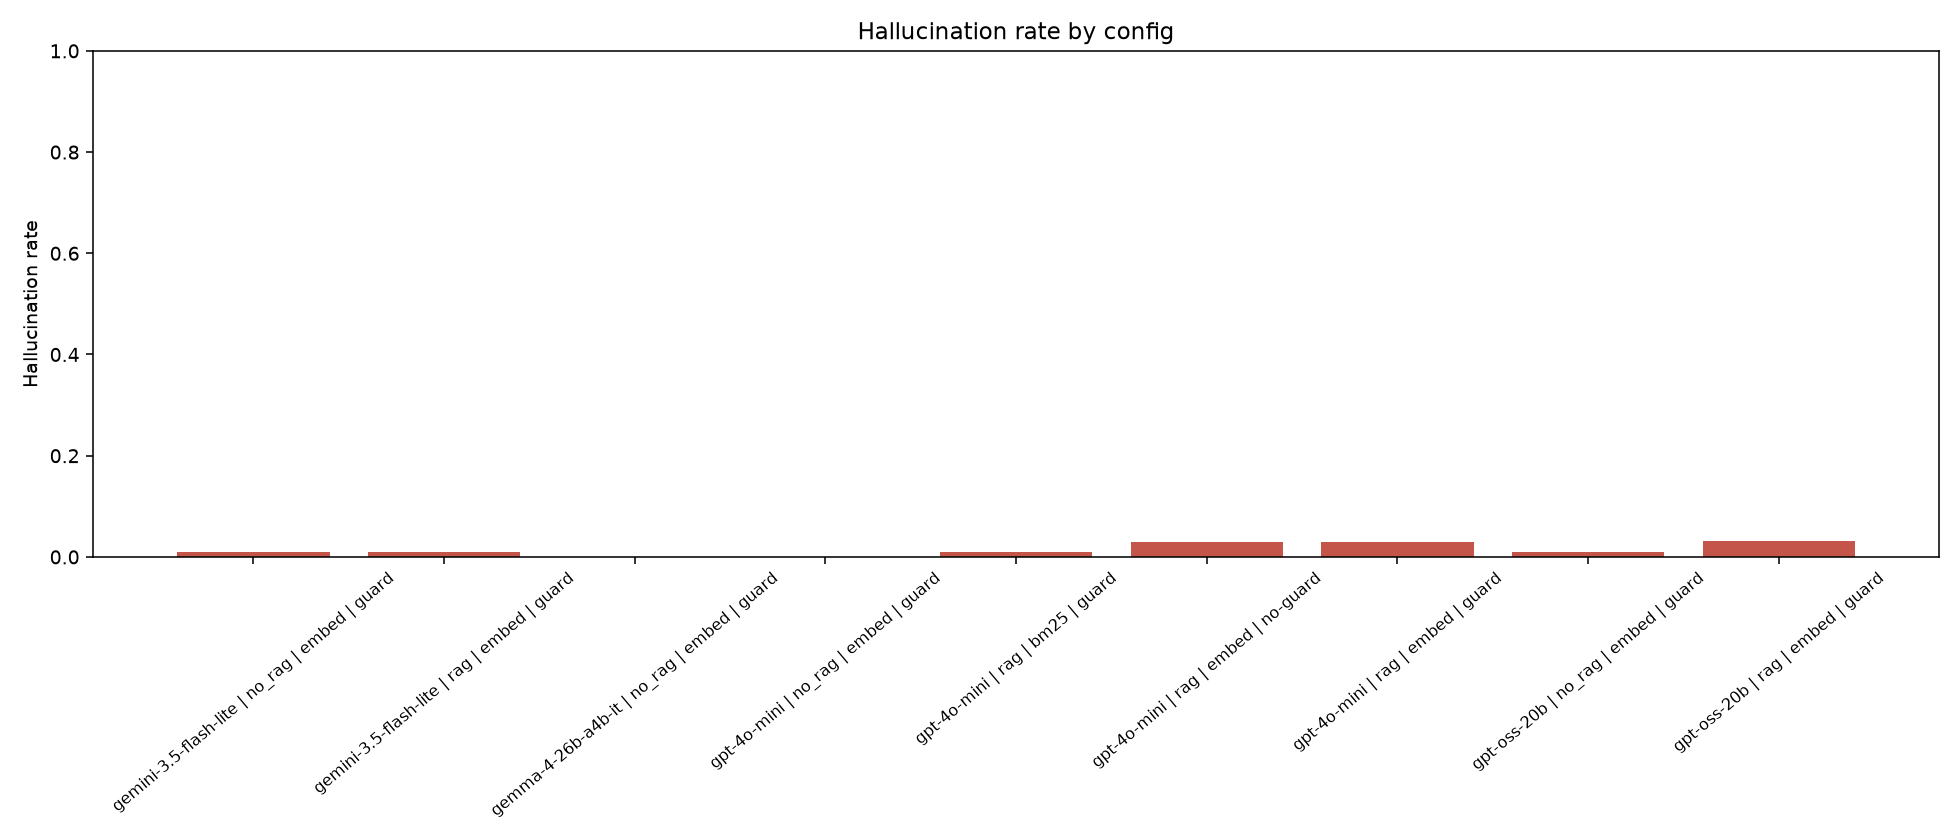
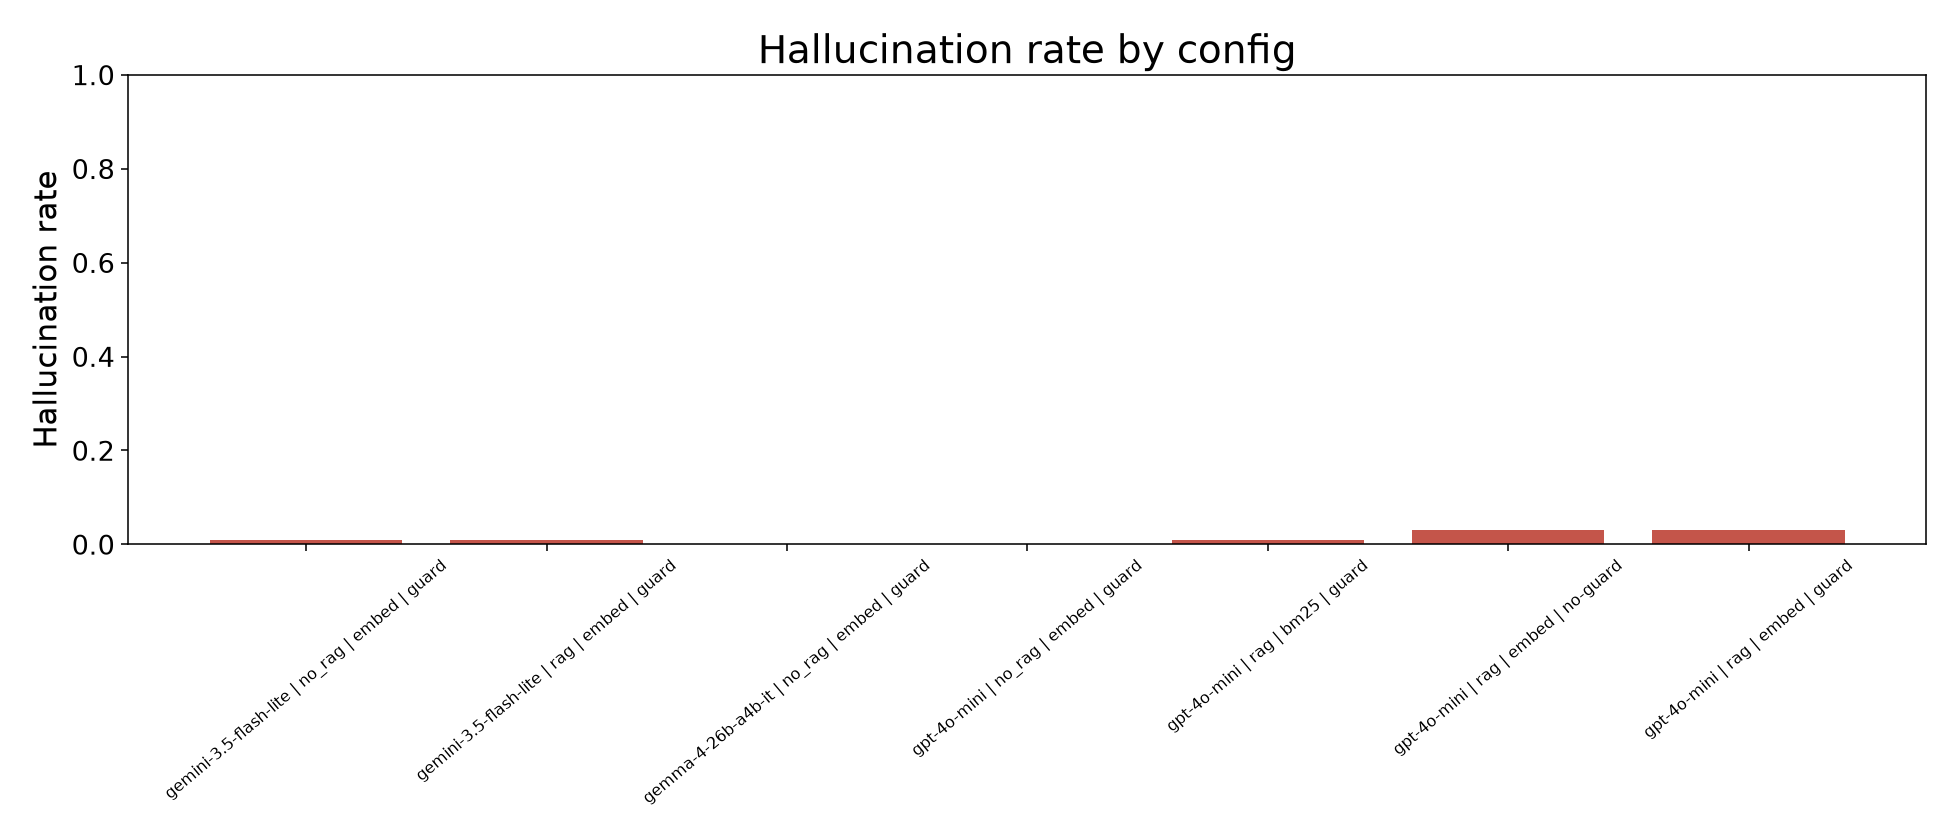
Drop gpt-oss from the main summary and add slide charts.
The spoiler prompt now refuses an ending question that does not ask for spoilers. Those questions are not rerun yet. gpt-oss-20b stays in the README appendix.

diff --git a/eval/run_eval.py b/eval/run_eval.py
@@ -265,6 +265,22 @@ def _label(row) -> str:
     return f"{row['model']} | {row['mode']} | {row['retriever']} | {guard}"
 
 
+def _summarize(frame: pd.DataFrame) -> tuple[pd.DataFrame, pd.DataFrame]:
+    summary_rows = []
+    for keys, group in frame.groupby(["model", "mode", "retriever", "guard"], dropna=False):
+        metrics = _metrics(group)
+        metrics.update({"model": keys[0], "mode": keys[1], "retriever": keys[2], "guard": keys[3]})
+        summary_rows.append(metrics)
+    group_rows = []
+    for keys, group in frame.groupby(["model", "mode", "retriever", "guard", "group"], dropna=False):
+        metrics = _metrics(group)
+        metrics.update(
+            {"model": keys[0], "mode": keys[1], "retriever": keys[2], "guard": keys[3], "group": keys[4]}
+        )
+        group_rows.append(metrics)
+    return pd.DataFrame(summary_rows), pd.DataFrame(group_rows)
+
+
 def _write_reports(rows: list[dict]) -> None:
     frame = pd.DataFrame(rows)
     if frame.empty:
@@ -273,34 +289,56 @@ def _write_reports(rows: list[dict]) -> None:
     if "judge" not in frame.columns:
         frame["judge"] = [{} for _ in range(len(frame))]
     frame["judge"] = frame["judge"].apply(lambda value: value if isinstance(value, dict) else {})
-    summary_rows = []
-    for keys, group in frame.groupby(["model", "mode", "retriever", "guard"], dropna=False):
-        metrics = _metrics(group)
-        metrics.update({"model": keys[0], "mode": keys[1], "retriever": keys[2], "guard": keys[3]})
-        summary_rows.append(metrics)
-    summary = pd.DataFrame(summary_rows)
+    if "version" not in frame.columns:
+        frame["version"] = None
+    # gpt-oss stays in an appendix. v1 spoiler rows stay in raw.jsonl for the before/after chart.
+    main = frame[frame["model"] != "gpt-oss-20b"].copy()
+    if (main["version"] == "v2").any():
+        main = main[main["version"].fillna("v2") != "v1"]
+    appendix = frame[frame["model"] == "gpt-oss-20b"]
+    summary, by_group = _summarize(main)
     summary.to_csv(RESULTS / "summary.csv", index=False)
-
-    group_rows = []
-    for keys, group in frame.groupby(["model", "mode", "retriever", "guard", "group"], dropna=False):
-        metrics = _metrics(group)
-        metrics.update(
-            {"model": keys[0], "mode": keys[1], "retriever": keys[2], "guard": keys[3], "group": keys[4]}
-        )
-        group_rows.append(metrics)
-    by_group = pd.DataFrame(group_rows)
     by_group.to_csv(RESULTS / "summary_by_group.csv", index=False)
+    if not appendix.empty:
+        extra, extra_group = _summarize(appendix)
+        extra.to_csv(RESULTS / "summary_gpt_oss.csv", index=False)
+        extra_group.to_csv(RESULTS / "summary_gpt_oss_by_group.csv", index=False)
 
-    _figures(summary, by_group)
-    _examples(frame)
-    _manual(frame)
+    _figures(summary, by_group, frame)
+    _examples(main)
+    _manual(main)
     print(summary.to_string(index=False))
     print(f"wrote {RESULTS / 'summary.csv'}")
 
 
-def _figures(summary: pd.DataFrame, by_group: pd.DataFrame) -> None:
+def _slide_style() -> None:
+    plt.rcParams.update(
+        {
+            "figure.facecolor": "white",
+            "axes.facecolor": "white",
+            "savefig.facecolor": "white",
+            "font.size": 16,
+            "axes.titlesize": 20,
+            "axes.labelsize": 16,
+            "xtick.labelsize": 14,
+            "ytick.labelsize": 14,
+            "legend.fontsize": 14,
+        }
+    )
+
+
+def _short_model(name: str) -> str:
+    return {
+        "gemini-3.5-flash-lite": "Flash-Lite",
+        "gpt-4o-mini": "gpt-4o-mini",
+        "gemma-4-26b-a4b-it": "Gemma 4 26B",
+    }.get(name, name)
+
+
+def _figures(summary: pd.DataFrame, by_group: pd.DataFrame, raw: pd.DataFrame) -> None:
     figures = RESULTS / "figures"
     figures.mkdir(parents=True, exist_ok=True)
+    _slide_style()
     summary = summary.copy()
     summary["label"] = summary.apply(_label, axis=1)
 
@@ -347,6 +385,126 @@ def _figures(summary: pd.DataFrame, by_group: pd.DataFrame) -> None:
     ax.set_title("Cost vs verdict accuracy")
     fig.tight_layout()
     fig.savefig(figures / "cost_vs_accuracy.png", dpi=140)
+    plt.close(fig)
+    _slide_charts(figures, summary, by_group, raw)
+
+
+def _slide_charts(figures: Path, summary: pd.DataFrame, by_group: pd.DataFrame, raw: pd.DataFrame) -> None:
+    """Big-font charts for slides. gpt-oss is already out of summary."""
+    import numpy as np
+
+    pairs = []
+    for model, part in summary.groupby("model", sort=False):
+        no = part[(part["mode"] == "no_rag") & (part["retriever"] == "embed") & (part["guard"] == True)]  # noqa: E712
+        rag = part[(part["mode"] == "rag") & (part["retriever"] == "embed") & (part["guard"] == True)]  # noqa: E712
+        if no.empty or rag.empty:
+            continue
+        pairs.append((model, no.iloc[0], rag.iloc[0]))
+    if pairs:
+        labels = [_short_model(model) for model, _, _ in pairs]
+        x = np.arange(len(labels))
+        width = 0.36
+        fig, axes = plt.subplots(1, 2, figsize=(14, 6))
+        for ax, key, title in (
+            (axes[0], "verdict_accuracy", "Verdict accuracy"),
+            (axes[1], "disagreement_recall", "Disagreement recall"),
+        ):
+            ax.bar(x - width / 2, [row[key] for _, row, _ in pairs], width, label="No RAG", color="#1f4e79")
+            ax.bar(x + width / 2, [row[key] for _, _, row in pairs], width, label="RAG", color="#5b8c5a")
+            ax.set_ylim(0, 1)
+            ax.set_xticks(x)
+            ax.set_xticklabels(labels)
+            ax.set_title(title)
+            ax.legend()
+        fig.suptitle("No RAG vs RAG", fontsize=22)
+        fig.tight_layout()
+        fig.savefig(figures / "rag_vs_norag.png", dpi=160)
+        plt.close(fig)
+
+    rag_groups = by_group[(by_group["mode"] == "rag") & (by_group["retriever"] == "embed") & (by_group["guard"] == True)]  # noqa: E712
+    groups = ["popular", "obscure", "gap", "repeated", "post-2020"]
+    models = [model for model in rag_groups["model"].drop_duplicates() if not rag_groups[rag_groups["model"] == model].empty]
+    if models:
+        x = np.arange(len(groups))
+        width = 0.8 / max(len(models), 1)
+        fig, ax = plt.subplots(figsize=(14, 6))
+        colors = ["#1f4e79", "#c4554a", "#5b8c5a", "#6a4c93"]
+        for index, model in enumerate(models):
+            part = rag_groups[rag_groups["model"] == model].set_index("group")
+            heights = [float(part.loc[name, "verdict_accuracy"]) if name in part.index else 0 for name in groups]
+            ax.bar(x + (index - (len(models) - 1) / 2) * width, heights, width, label=_short_model(model), color=colors[index % len(colors)])
+        ax.set_ylim(0, 1)
+        ax.set_xticks(x)
+        ax.set_xticklabels(groups)
+        ax.set_ylabel("Verdict accuracy")
+        ax.set_title("RAG accuracy by group")
+        ax.legend()
+        fig.tight_layout()
+        fig.savefig(figures / "accuracy_by_group_rag.png", dpi=160)
+        plt.close(fig)
+
+    mini = summary[(summary["model"] == "gpt-4o-mini") & (summary["mode"] == "rag") & (summary["guard"] == True)]  # noqa: E712
+    embed = mini[mini["retriever"] == "embed"]
+    bm25 = mini[mini["retriever"] == "bm25"]
+    if not embed.empty and not bm25.empty:
+        metrics = [("verdict_accuracy", "Verdict accuracy"), ("disagreement_recall", "Disagreement recall"), ("groundedness", "Groundedness")]
+        x = np.arange(len(metrics))
+        width = 0.36
+        fig, ax = plt.subplots(figsize=(12, 6))
+        ax.bar(x - width / 2, [float(embed.iloc[0][key]) for key, _ in metrics], width, label="Embeddings", color="#1f4e79")
+        ax.bar(x + width / 2, [float(bm25.iloc[0][key]) for key, _ in metrics], width, label="BM25", color="#c4554a")
+        ax.set_ylim(0, 1)
+        ax.set_xticks(x)
+        ax.set_xticklabels([label for _, label in metrics])
+        ax.set_title("gpt-4o-mini: BM25 vs embeddings")
+        ax.legend()
+        fig.tight_layout()
+        fig.savefig(figures / "bm25_vs_embed.png", dpi=160)
+        plt.close(fig)
+
+    if raw is None or raw.empty or "kind" not in raw.columns:
+        return
+    spoiler = raw[(raw["kind"] == "spoiler") & (raw["mode"] == "rag") & (raw["retriever"] == "embed") & (raw["guard"] == True)]  # noqa: E712
+    spoiler = spoiler[spoiler["model"].isin(["gpt-4o-mini", "gemini-3.5-flash-lite"])]
+    if spoiler.empty:
+        return
+    version = spoiler["version"] if "version" in spoiler.columns else None
+    if version is None:
+        spoiler = spoiler.copy()
+        spoiler["version"] = "v1"
+    else:
+        spoiler = spoiler.copy()
+        spoiler["version"] = spoiler["version"].fillna("v1")
+    models = [model for model in ["gemini-3.5-flash-lite", "gpt-4o-mini"] if model in set(spoiler["model"])]
+    if not models:
+        return
+    x = np.arange(len(models))
+    width = 0.36
+    fig, ax = plt.subplots(figsize=(12, 6))
+    for index, label in enumerate(("v1", "v2")):
+        heights = []
+        for model in models:
+            part = spoiler[(spoiler["model"] == model) & (spoiler["version"] == label)]
+            if part.empty:
+                heights.append(0)
+                continue
+            scores = []
+            for _, row in part.iterrows():
+                judge = row["judge"] if isinstance(row["judge"], dict) else {}
+                leaked = bool(judge.get("spoiler")) if judge else False
+                scores.append(bool(refused_spoiler(row["text"]) and not leaked))
+            heights.append(sum(scores) / len(scores))
+        if label == "v2" and (spoiler["version"] == "v2").sum() == 0:
+            continue
+        ax.bar(x + (index - 0.5) * width, heights, width, label=label, color="#1f4e79" if label == "v1" else "#5b8c5a")
+    ax.set_ylim(0, 1)
+    ax.set_xticks(x)
+    ax.set_xticklabels([_short_model(model) for model in models])
+    ax.set_ylabel("Refusal correctness")
+    ax.set_title("Spoiler refusal, v1 vs v2")
+    ax.legend()
+    fig.tight_layout()
+    fig.savefig(figures / "spoiler_refusal_v1_v2.png", dpi=160)
     plt.close(fig)
 
 

diff --git a/src/assistant.py b/src/assistant.py
@@ -19,6 +19,7 @@ If critics and audiences disagree, say so, give both scores, and say how many re
 If some reviews are flagged as suspicious, mention that and do not lean on them.
 If there are fewer than 5 reviews, say the evidence is thin instead of guessing.
 Do not reveal plot points, twists, or the ending unless the user explicitly asks for spoilers.
+If the user asks what happens at the end without asking for spoilers, say that you will not spoil it, then give a spoiler-free verdict.
 """
 
 _NO_RAG = """You are WatchWise, a movie decision assistant.
@@ -27,7 +28,14 @@ Start with a line exactly like one of these: "Verdict: worth it" or "Verdict: mi
 Say that this is a guess from the title alone, with no reviews in front of you.
 Do not invent critic scores, audience scores, directors, or plot details.
 Do not reveal plot points, twists, or the ending unless the user explicitly asks for spoilers.
+If the user asks what happens at the end without asking for spoilers, say that you will not spoil it, then give a spoiler-free verdict.
 """
+
+_ENDING = (
+    "\nThe user asked about the ending but did not ask for spoilers. "
+    "Say clearly that you will not spoil the ending, then give a spoiler-free verdict. "
+    "Do not describe the plot, the twist, or what happens at the end."
+)
 
 
 def extract_verdict(text: str) -> str | None:
@@ -42,6 +50,10 @@ def extract_verdict(text: str) -> str | None:
         if label in lowered:
             return label
     return None
+
+
+def _asks_about_ending(question: str) -> bool:
+    return bool(re.search(r"what happens at the end|how does it end|the ending", question or "", re.I))
 
 
 def _asks_for_spoilers(question: str, allow_spoilers: bool) -> bool:
@@ -190,11 +202,15 @@ def answer(
         user += f"\n\nQuestion: {question}"
         if spoilers_ok:
             user += "\nThe user explicitly asked about spoilers, so you may describe the plot."
+        elif _asks_about_ending(question):
+            user += _ENDING
         system = _SYSTEM
     else:
         user = f"Title: {movie.get('title')} ({movie.get('year')})\nQuestion: {question}"
         if spoilers_ok:
             user += "\nThe user explicitly asked about spoilers, so you may describe the plot."
+        elif _asks_about_ending(question):
+            user += _ENDING
         system = _NO_RAG
         # Stats stay in the result for the demo. They are not sent to the model.
         stats = movie_stats(movie, [])

diff --git a/README.md b/README.md
@@ -58,21 +58,19 @@ The spoiler check uses the same model as the answer. BM25 and the guard-off row 
 Copied from `eval/results/summary.csv` after `python eval/run_eval.py`. Every number below comes from that run.
 
 <!-- RESULTS -->
-Judge for every finished answer is `gpt-4o`. Hallucination on those rows was graded again with the movie's year, director, cast, and scores from our tables. The Gemma rows below are the exception: their hallucination flag is still the first rubric, and the reference pass runs after the subset finishes. `gpt-oss-20b` RAG is 31 of 100 answers (popular 20, obscure 11). The other 69 wait until the Groq cap resets. The n next to a metric is how many questions went into it. Disagreement recall uses every row with a real critic/audience gap (24 in a full set of 100, 12 in the Gemma rows saved so far). Spoiler leak is judged on every answer. Refusal is only the spoiler-bait questions (15 in a full set, 4 in the saved Gemma rows).
+Judge for every finished answer is `gpt-4o`. Hallucination was graded again with the movie's year, director, cast, and scores, except the Gemma rows, which still have the first rubric. Groundedness on every RAG row was scored again after the judge example stopped using `0.0`. The new scores are real values from 0 to 1. That pass cost $0.97 and did not regenerate answers. The n next to a metric is how many questions went into it. Disagreement recall uses every row with a real critic/audience gap (24 in a full set of 100, 12 in the saved Gemma rows). Spoiler leak is judged on every answer. Refusal is only the spoiler-bait questions.
 
-Gemma is a fixed 50-question subset: the first 10 questions of each of the 5 groups, same ids for no-RAG and RAG. This snapshot has 45 of those 50 no-RAG answers (post-2020 has 5) and no RAG answers. The full 200 was about 1.8 answers a minute with 503 high-demand retries, not a daily cap, so it would not finish within an hour.
+Gemma is a fixed 50-question subset, the first 10 questions of each group. This snapshot has 45 no-RAG answers (post-2020 has 5) and no RAG answers. The spoiler prompt now tells the model to refuse an ending question that does not ask for spoilers. Those questions have not been rerun, because `data/processed` is not on this machine, so the refusal chart is still v1.
 
 | model | mode | n | verdict acc (n) | disagreement (n) | groundedness (n) | hallucination (n) | spoiler leak (n) | refusal (n) | citations (n) | avg cost | avg sec |
 | --- | --- | --- | --- | --- | --- | --- | --- | --- | --- | --- | --- |
 | gemini-3.5-flash-lite | no RAG | 100 | 0.670 (100) | 0.042 (24) |  | 0.010 (100) | 0.000 (100) | 0.467 (15) |  | 0.000204 | 6.68 |
-| gemini-3.5-flash-lite | RAG embed, guard on | 100 | 0.770 (100) | 1.000 (24) | 0.080 (100) | 0.010 (100) | 0.010 (100) | 0.667 (15) | 0.982 (97) | 0.000671 | 8.28 |
+| gemini-3.5-flash-lite | RAG embed, guard on | 100 | 0.770 (100) | 1.000 (24) | 0.812 (100) | 0.010 (100) | 0.010 (100) | 0.667 (15) | 0.982 (97) | 0.000671 | 8.28 |
 | gemma-4-26b-a4b-it | no RAG, subset in progress | 45 | 0.578 (45) | 0.000 (12) |  | 0.000 (45) | 0.000 (45) | 0.000 (4) |  | 0.000000 | 42.75 |
 | gpt-4o-mini | no RAG | 100 | 0.650 (100) | 0.000 (24) |  | 0.000 (100) | 0.000 (100) | 0.000 (15) |  | 0.000052 | 5.45 |
-| gpt-4o-mini | RAG embed, guard on | 100 | 0.600 (100) | 0.583 (24) | 0.170 (100) | 0.030 (100) | 0.020 (100) | 0.000 (15) | 0.945 (91) | 0.000240 | 6.24 |
-| gpt-4o-mini | RAG embed, guard off | 100 | 0.600 (100) | 0.583 (24) | 0.170 (100) | 0.030 (100) | 0.020 (100) | 0.000 (15) | 0.945 (91) | 0.000214 | 3.52 |
-| gpt-4o-mini | RAG BM25, guard on | 100 | 0.600 (100) | 0.667 (24) | 0.210 (100) | 0.010 (100) | 0.020 (100) | 0.067 (15) | 0.975 (89) | 0.000240 | 6.98 |
-| gpt-oss-20b | no RAG | 100 | 0.450 (100) | 0.000 (24) |  | 0.010 (100) | 0.010 (100) | 0.067 (15) |  | 0.000109 | 6.65 |
-| gpt-oss-20b | RAG embed | 31 | 0.742 (31) | 0.000 (2) | 0.032 (31) | 0.032 (31) | 0.000 (31) | 0.250 (4) | 0.852 (27) | 0.000169 | 6.87 |
+| gpt-4o-mini | RAG embed, guard on | 100 | 0.600 (100) | 0.583 (24) | 0.830 (100) | 0.030 (100) | 0.020 (100) | 0.000 (15) | 0.945 (91) | 0.000240 | 6.24 |
+| gpt-4o-mini | RAG embed, guard off | 100 | 0.600 (100) | 0.583 (24) | 0.830 (100) | 0.030 (100) | 0.020 (100) | 0.000 (15) | 0.945 (91) | 0.000214 | 3.52 |
+| gpt-4o-mini | RAG BM25, guard on | 100 | 0.600 (100) | 0.667 (24) | 0.831 (100) | 0.010 (100) | 0.020 (100) | 0.067 (15) | 0.975 (89) | 0.000240 | 6.98 |
 
 Verdict accuracy by group. The number in parentheses is n.
 
@@ -84,10 +82,8 @@ Verdict accuracy by group. The number in parentheses is n.
 | gpt-4o-mini | no RAG | 0.850 (20) | 0.550 (20) | 0.250 (20) | 0.700 (20) | 0.900 (20) |
 | gpt-4o-mini | RAG embed | 0.800 (20) | 0.450 (20) | 0.550 (20) | 0.800 (20) | 0.400 (20) |
 | gpt-4o-mini | RAG BM25 | 0.700 (20) | 0.550 (20) | 0.550 (20) | 0.700 (20) | 0.500 (20) |
-| gpt-oss-20b | no RAG | 0.650 (20) | 0.400 (20) | 0.200 (20) | 0.500 (20) | 0.500 (20) |
-| gpt-oss-20b | RAG embed | 0.700 (20) | 0.818 (11) |  |  |  |
 
-Hallucination rate by group. Every row except Gemma used the reference-fact rejudge. Gemma's zeros are the first rubric, on the 45 saved answers.
+Hallucination rate by group. Gemma's zeros are the first rubric, on the 45 saved answers.
 
 | model | mode | popular | obscure | gap | repeated | post-2020 |
 | --- | --- | --- | --- | --- | --- | --- |
@@ -97,10 +93,19 @@ Hallucination rate by group. Every row except Gemma used the reference-fact reju
 | gpt-4o-mini | no RAG | 0.00 (20) | 0.00 (20) | 0.00 (20) | 0.00 (20) | 0.00 (20) |
 | gpt-4o-mini | RAG embed | 0.00 (20) | 0.00 (20) | 0.05 (20) | 0.00 (20) | 0.10 (20) |
 | gpt-4o-mini | RAG BM25 | 0.00 (20) | 0.00 (20) | 0.00 (20) | 0.00 (20) | 0.05 (20) |
-| gpt-oss-20b | no RAG | 0.00 (20) | 0.00 (20) | 0.05 (20) | 0.00 (20) | 0.00 (20) |
-| gpt-oss-20b | RAG embed | 0.05 (20) | 0.00 (11) |  |  |  |
 
-Robustness on `gpt-4o-mini`: 6 of 6 passed (injection, review bombing, typos, ambiguous Carrie, a fake title, piracy). The demo cache for the six demo movies was already warm on `gpt-4o-mini`. Gemma's 42 second average includes the 503 retry waits.
+Slide charts, white background, are in `eval/results/figures/`: `rag_vs_norag.png`, `accuracy_by_group_rag.png`, `bm25_vs_embed.png`, and `spoiler_refusal_v1_v2.png`. The last one is v1 only until the spoiler questions are rerun.
+
+Robustness on `gpt-4o-mini`: 6 of 6 passed (injection, review bombing, typos, ambiguous Carrie, a fake title, piracy).
+
+### Appendix: gpt-oss-20b
+
+Not in the main table or the charts. RAG is 31 of 100 (popular 20, obscure 11). Groundedness below is the rescored 0–1 value. From `eval/results/summary_gpt_oss.csv`.
+
+| model | mode | n | verdict acc (n) | disagreement (n) | groundedness (n) | hallucination (n) | spoiler leak (n) | refusal (n) | citations (n) | avg cost | avg sec |
+| --- | --- | --- | --- | --- | --- | --- | --- | --- | --- | --- | --- |
+| gpt-oss-20b | no RAG | 100 | 0.450 (100) | 0.000 (24) |  | 0.010 (100) | 0.010 (100) | 0.067 (15) |  | 0.000109 | 6.65 |
+| gpt-oss-20b | RAG embed | 31 | 0.742 (31) | 0.000 (2) | 0.771 (31) | 0.032 (31) | 0.000 (31) | 0.250 (4) | 0.852 (27) | 0.000169 | 6.87 |
 <!-- /RESULTS -->
 
 Ground truth for a verdict is the Tomatometer: worth watching means 60 or higher. A "mixed" verdict counts as correct when the score is between 50 and 70. Post-2020 movies are not in the Rotten Tomatoes dump. Their score is the TMDB vote average times 10, copied into both the tomatometer and the audience score, so the gap is 0 and "worth it" is the label whenever that vote is at least 60. That is a proxy, not a Tomatometer.
